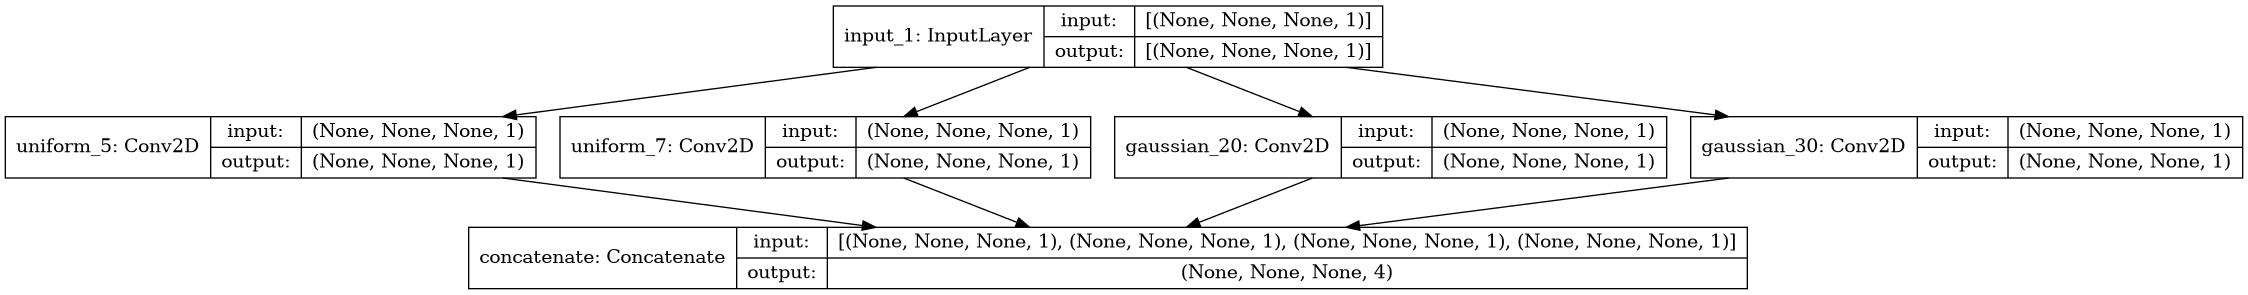
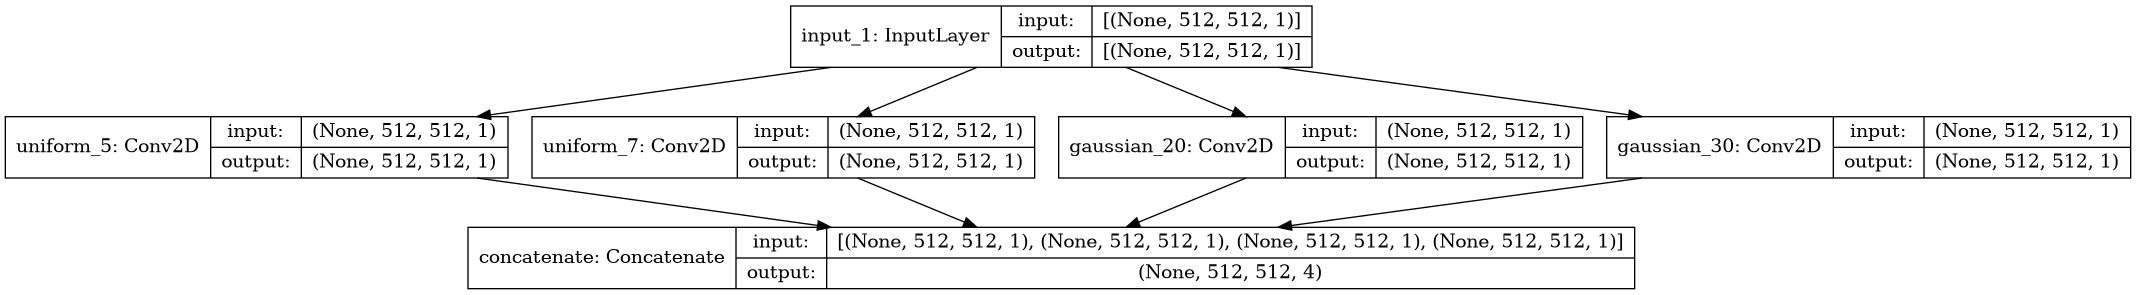
adding summary/fig for denoising model

diff --git a/denoising/lpf_model.py b/denoising/lpf_model.py
@@ -8,8 +8,8 @@ from tensorflow.python.keras.utils import plot_model
 import numpy as np
 from math import exp
 
-def make_lpf():
-    input = Input( (None, None, 1) )
+def make_lpf(input_shape=(None,None,1)):
+    input = Input( input_shape )
     uniform_5_ = Conv2D( 1, kernel_size=(5,5), activation='linear', strides=(1,1), padding='same', name='uniform_5', use_bias=False, trainable=False )
     uniform_5 = uniform_5_( input )
     uniform_7_ = Conv2D( 1, kernel_size=(7,7), activation='linear', strides=(1,1), padding='same', name='uniform_7', use_bias=False, trainable=False )
@@ -55,7 +55,7 @@ def merge_model( denoising_model_path ):
     merged_model.save_weights( '/data/model/saved_model/denoiser_merged_13_any_size.weight' )
 
 if __name__ == '__main__':
-    lpf_model = make_lpf()
+    lpf_model = make_lpf(input_shape=(512, 512, 1))
     lpf_model.summary()
     plot_model(lpf_model, 'lpf_model.png', show_shapes=True, rankdir='TB')
 

diff --git a/denoising/denoising_model.py b/denoising/denoising_model.py
@@ -19,9 +19,9 @@ def deconv2d(layer_input, skip_input, filters, f_size=4):
     u = Concatenate()([u, skip_input])
     return u
 
-def build_denoising_model():
+def build_denoising_model(input_shape=(None,None,4)):
 
-    d0 = Input(shape=(None, None, 4))
+    d0 = Input(shape=input_shape)
     d1 = conv2d(d0, 64, bn=False)
     d2 = conv2d(d1, 128)
     d3 = conv2d(d2, 256)
@@ -51,7 +51,8 @@ def build_denoising_model():
     return u_model, mcnn_model
 
 if __name__ == '__main__':
-    u, m = build_denoising_model()
-    plot_model(u, 'denoising_u_model.png', show_shapes=True, rankdir='TB')
-    plot_model(m, 'denoising_m_model.png', show_shapes=True, rankdir='TB')
+    u, m = build_denoising_model(input_shape=(512,512,4))
+    #plot_model(u, 'denoising_u_model.png', show_shapes=True, rankdir='TB')
+    plot_model(m, 'denoising_model.png', show_shapes=True, rankdir='TB')
+    m.summary()
 
